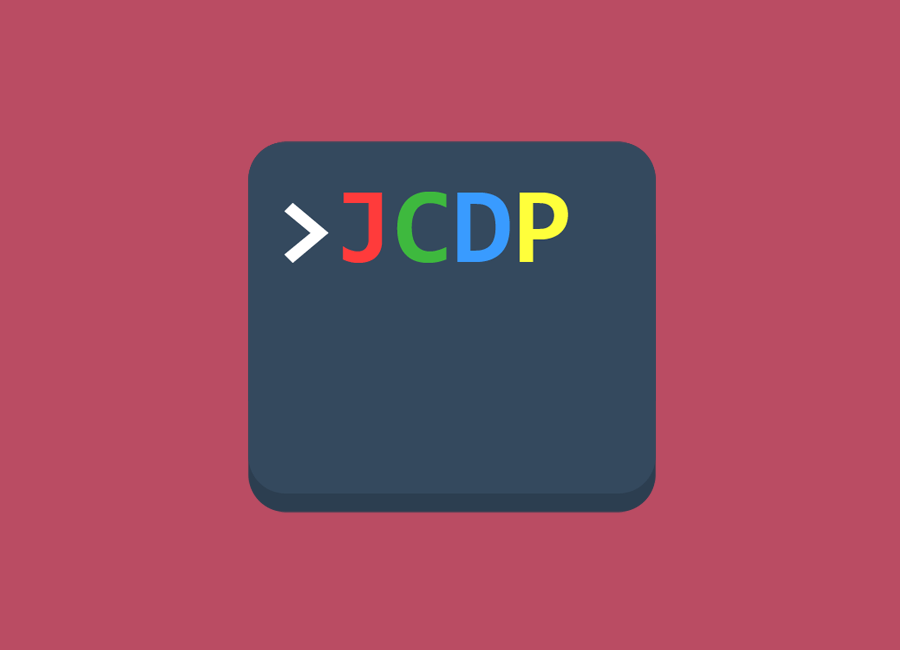
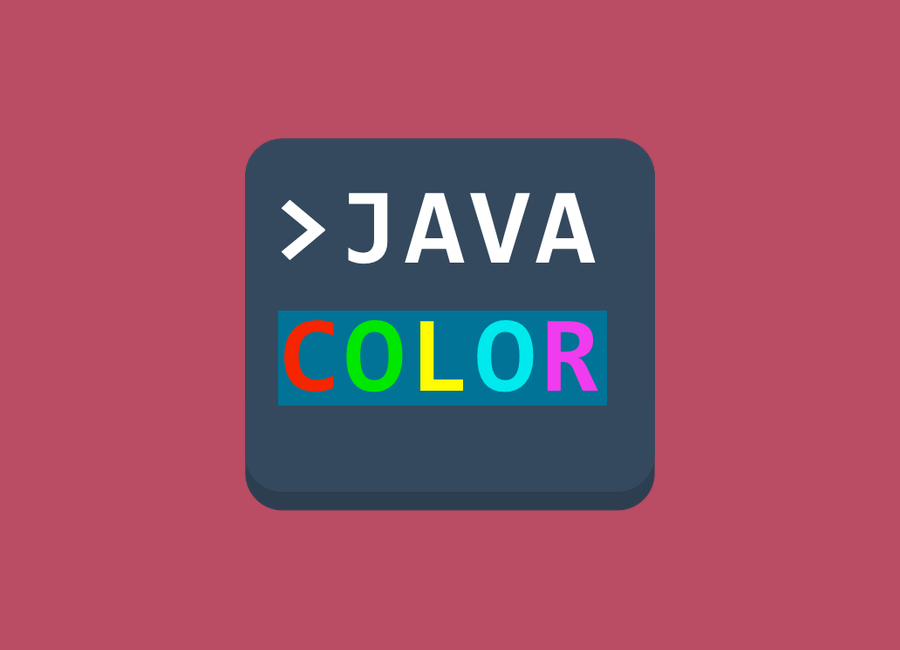
chore: update references JCDP > JColor

diff --git a/index.html b/index.html
@@ -498,24 +498,24 @@
           <div class="row">
             <div class="col-lg-8 col-lg-offset-2">
               <div class="modal-body">
-                <h2>JCDP</h2>
+                <h2>JColor</h2>
                 <hr class="star-primary" />
                 <img src="/assets/img/portfolio/examples/jcdp.png" class="img-responsive img-centered" alt="" />
                 <p>
-                  <a href="https://github.com/dialex/JCDP">Java Colored Debug Printer</a>
-                  is a Java library that offers you a convenient way to print debug messages or colored messages on a
-                  terminal. I extracted it from a university project and open-sourced it.
+                  <a href="https://github.com/dialex/JColor">JColor</a>
+                  is a Java library that offers you a fluent API to format terminal messages with color.
+                  I extracted it from a university project and open-sourced it.
                 </p>
                 <p>
-                  <a href="https://github.com/dialex/JCDP">Source</a>&nbsp;·&nbsp;<a
-                    href="https://github.com/dialex/JCDP#build-tools"
+                  <a href="https://github.com/dialex/JColor">Source</a>&nbsp;·&nbsp;<a
+                    href="https://github.com/dialex/JColor#installation"
                     >Download</a
-                  >&nbsp;·&nbsp;<a href="https://github.com/dialex/JCDP#documentation">Documentation</a>
+                  >&nbsp;·&nbsp;<a href="https://dialex.github.io/JColor/">Documentation</a>
                 </p>
                 <ul class="list-inline item-details">
                   <li>
                     Date:
-                    <strong>2011, 2016</strong>
+                    <strong>2011, 2016, 2020</strong>
                   </li>
                   <li>
                     Skills:
@@ -778,9 +778,9 @@
                 <hr class="star-primary" />
                 <img src="/assets/img/portfolio/work-OpenSource.png" class="img-responsive img-centered" alt="" />
                 <p class="align-justify">
-                  <i class="fab fa-github"></i>&nbsp;<a href="https://github.com/dialex/JCDP"
-                    >JCDP</a
-                  > [Java], an easy syntax to print messages with a colored font/background.
+                  <i class="fab fa-github"></i>&nbsp;<a href="https://github.com/dialex/JColor"
+                    >JColor</a
+                  > [Java], a fluent API to format messages with a colored font/background.
                 </p>
                 <p class="align-justify">
                   <i class="fab fa-github"></i>&nbsp;<a href="https://github.com/dialex/cypress-sapling"
